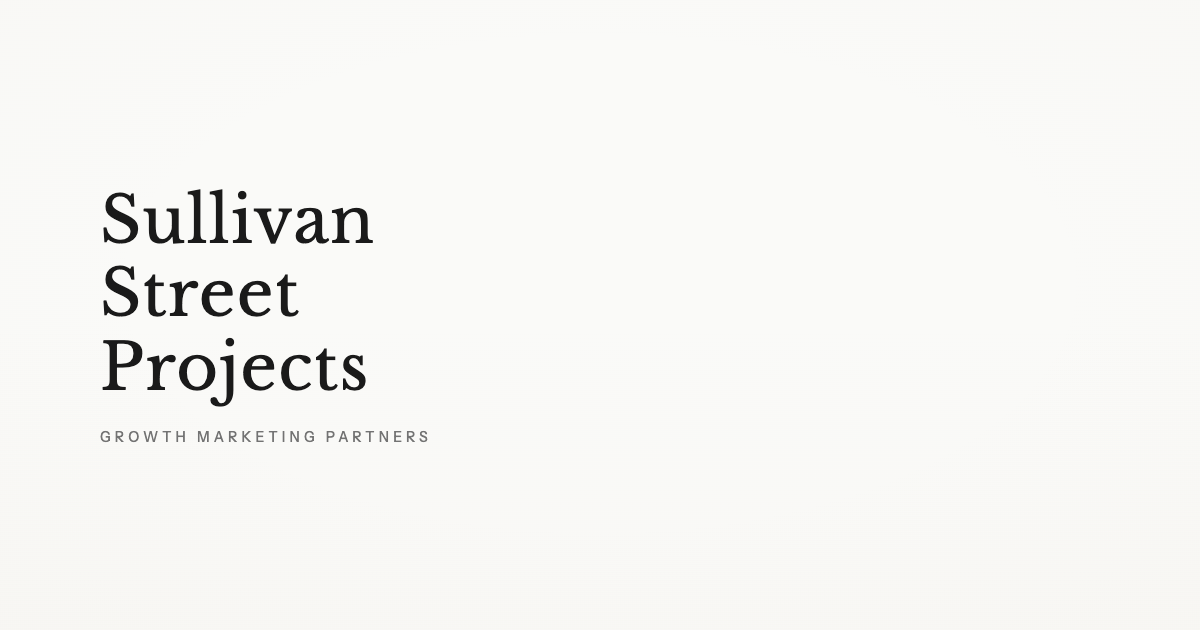
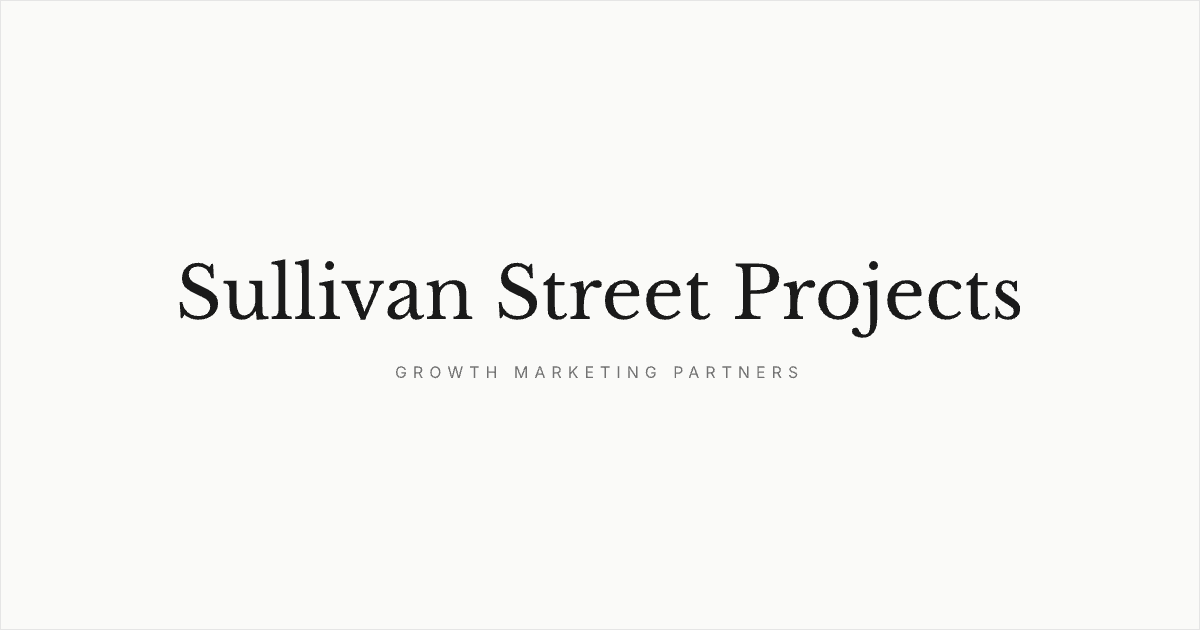
fix(OG): update social card — larger wordmark + tagline, correct title
Replace the old left-aligned OG image with a centered wordmark + tagline
variant (Option D) exported from the brand style guide. Update og:title
and twitter:title from "Growth Marketing" to "Growth Marketing Partners".

diff --git a/index.html b/index.html
@@ -15,7 +15,7 @@
     <!-- Open Graph / Social -->
     <meta property="og:type" content="website">
     <meta property="og:url" content="https://sullivanstreetprojects.com">
-    <meta property="og:title" content="Sullivan Street Projects | Growth Marketing">
+    <meta property="og:title" content="Sullivan Street Projects | Growth Marketing Partners">
     <meta property="og:description" content="Marketing for tomorrow's billion-dollar brands.">
     <meta property="og:image" content="https://sullivanstreetprojects.com/og-image.png">
     <meta property="og:image:width" content="1200">
@@ -25,7 +25,7 @@
 
     <!-- Twitter Card -->
     <meta name="twitter:card" content="summary_large_image">
-    <meta name="twitter:title" content="Sullivan Street Projects | Growth Marketing">
+    <meta name="twitter:title" content="Sullivan Street Projects | Growth Marketing Partners">
     <meta name="twitter:description" content="Marketing for tomorrow's billion-dollar brands.">
     <meta name="twitter:image" content="https://sullivanstreetprojects.com/og-image.png">
 
